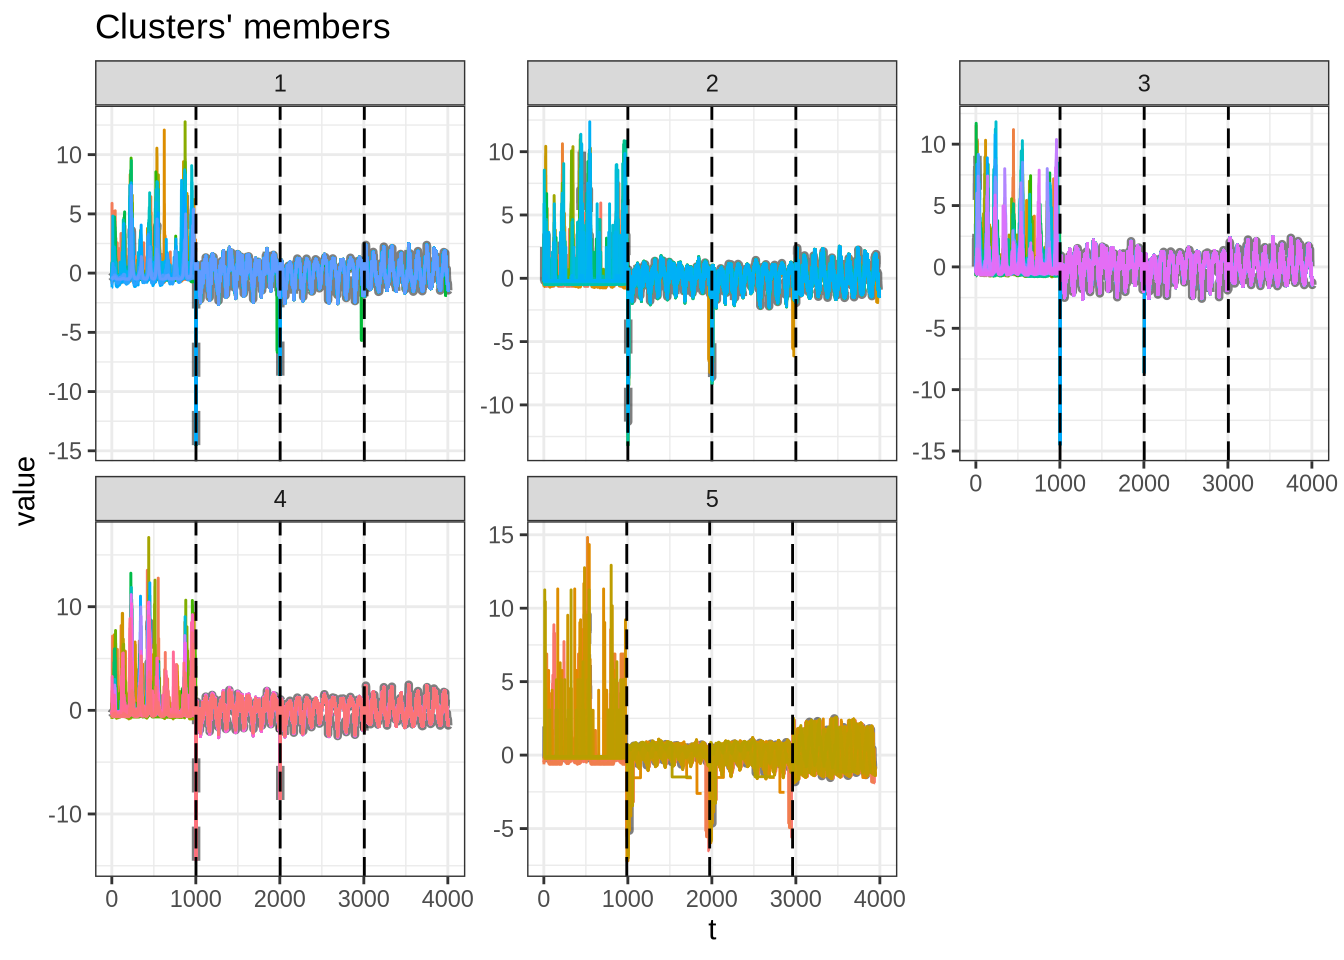
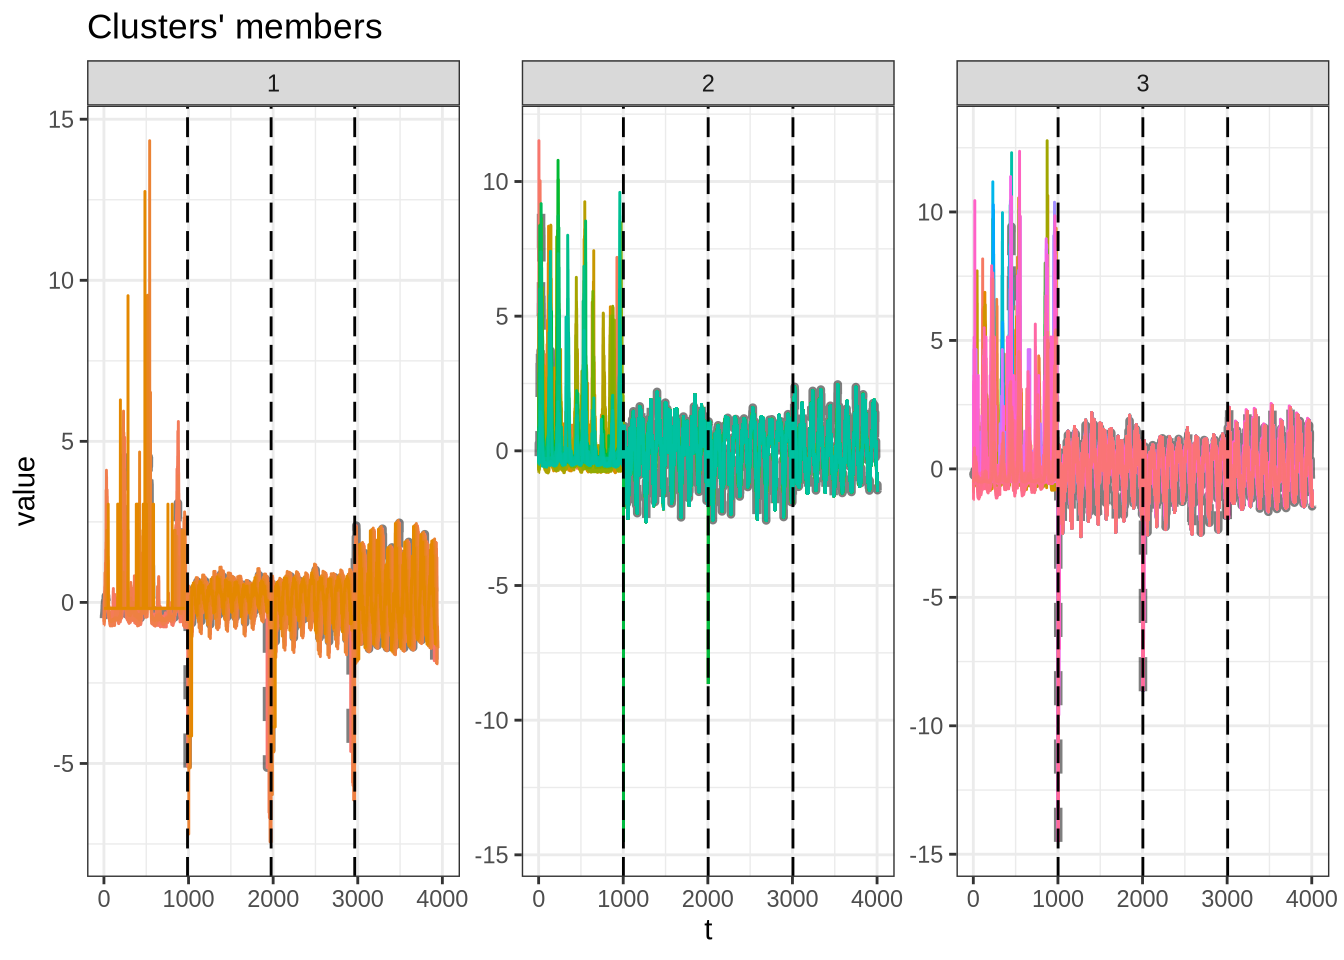
clustering run

diff --git a/docs/dengue-cluster/cluster_multivariate_all.html b/docs/dengue-cluster/cluster_multivariate_all.html
@@ -644,13 +644,13 @@ gtag('config', 'G-ZMP18L536K', { 'anonymize_ip': true});
 <span id="cb2-4"><a href="#cb2-4" aria-hidden="true" tabindex="-1"></a></span>
 <span id="cb2-5"><a href="#cb2-5" aria-hidden="true" tabindex="-1"></a><span class="fu">dim</span>(tdengue)</span></code><button title="Copy to Clipboard" class="code-copy-button"><i class="bi"></i></button></pre></div>
 <div class="cell-output cell-output-stdout">
-<pre><code>[1] 331980      6</code></pre>
+<pre><code>[1] 157932      6</code></pre>
 </div>
 </div>
 <div class="cell">
 <div class="sourceCode cell-code" id="cb4"><pre class="sourceCode r code-with-copy"><code class="sourceCode r"><span id="cb4-1"><a href="#cb4-1" aria-hidden="true" tabindex="-1"></a><span class="fu">length</span>(<span class="fu">unique</span>(tdengue<span class="sc">$</span>mun))</span></code><button title="Copy to Clipboard" class="code-copy-button"><i class="bi"></i></button></pre></div>
 <div class="cell-output cell-output-stdout">
-<pre><code>[1] 333</code></pre>
+<pre><code>[1] 158</code></pre>
 </div>
 </div>
 <p>Data for maps.</p>
@@ -688,15 +688,15 @@ gtag('config', 'G-ZMP18L536K', { 'anonymize_ip': true});
 <div class="sourceCode cell-code" id="cb12"><pre class="sourceCode r code-with-copy"><code class="sourceCode r"><span id="cb12-1"><a href="#cb12-1" aria-hidden="true" tabindex="-1"></a><span class="fu">glimpse</span>(mdengue[<span class="dv">1</span><span class="sc">:</span><span class="dv">3</span>])</span></code><button title="Copy to Clipboard" class="code-copy-button"><i class="bi"></i></button></pre></div>
 <div class="cell-output cell-output-stdout">
 <pre><code>List of 3
- $ 110002: num [1:1001, 1:4] -0.511 0.668 0.668 0.668 0.668 ...
-  ..- attr(*, "dimnames")=List of 2
-  .. ..$ : NULL
-  .. ..$ : chr [1:4] "cases" "tmax" "tmin" "prec"
- $ 110012: num [1:1001, 1:4] -0.45 0.648 0.648 1.198 1.198 ...
-  ..- attr(*, "dimnames")=List of 2
-  .. ..$ : NULL
-  .. ..$ : chr [1:4] "cases" "tmax" "tmin" "prec"
  $ 110020: num [1:1001, 1:4] -0.5201 0.1558 0.1558 0.0713 0.0713 ...
+  ..- attr(*, "dimnames")=List of 2
+  .. ..$ : NULL
+  .. ..$ : chr [1:4] "cases" "tmax" "tmin" "prec"
+ $ 120040: num [1:1002, 1:4] 1.33 1.33 11.52 11.52 9.04 ...
+  ..- attr(*, "dimnames")=List of 2
+  .. ..$ : NULL
+  .. ..$ : chr [1:4] "cases" "tmax" "tmin" "prec"
+ $ 130260: num [1:1002, 1:4] 0.0251 0.0251 2.2631 2.2631 2.2171 ...
   ..- attr(*, "dimnames")=List of 2
   .. ..$ : NULL
   .. ..$ : chr [1:4] "cases" "tmax" "tmin" "prec"</code></pre>
@@ -716,7 +716,7 @@ gtag('config', 'G-ZMP18L536K', { 'anonymize_ip': true});
 <span id="cb14-7"><a href="#cb14-7" aria-hidden="true" tabindex="-1"></a>)</span>
 <span id="cb14-8"><a href="#cb14-8" aria-hidden="true" tabindex="-1"></a><span class="fu">toc</span>()</span></code><button title="Copy to Clipboard" class="code-copy-button"><i class="bi"></i></button></pre></div>
 <div class="cell-output cell-output-stdout">
-<pre><code>33.221 sec elapsed</code></pre>
+<pre><code>7.945 sec elapsed</code></pre>
 </div>
 </div>
 <section id="cluster-validity-indices-cvi" class="level3">
@@ -731,8 +731,8 @@ gtag('config', 'G-ZMP18L536K', { 'anonymize_ip': true});
 <span id="cb16-7"><a href="#cb16-7" aria-hidden="true" tabindex="-1"></a><span class="fu">datatable</span>(res_cvi)</span></code><button title="Copy to Clipboard" class="code-copy-button"><i class="bi"></i></button></pre></div>
 <div class="cell-output-display">
 
-<div class="datatables html-widget html-fill-item-overflow-hidden html-fill-item" id="htmlwidget-602228f0057e4179a1f2" style="width:100%;height:auto;"></div>
-<script type="application/json" data-for="htmlwidget-602228f0057e4179a1f2">{"x":{"filter":"none","vertical":false,"data":[["1","2","3","4","5","6","7","8","9","10","11","12","13","14","15","16","17","18"],["k_5","k_10","k_4","k_11","k_8","k_9","k_3","k_6","k_15","k_18","k_7","k_14","k_16","k_13","k_12","k_19","k_17","k_20"],[0.1279891898123446,0.119391513627497,0.1112460346175835,0.111183544363204,0.1037889735428478,0.09908440332531278,0.09892984383200942,0.09398010585344234,0.09269024567672776,0.08951796943607226,0.08892738818122657,0.08854704499566712,0.08643915610544772,0.0820343625057926,0.07761686669656334,0.06921027960321488,0.05487261485226928,0.04173607783450495],[0,0,0,0,0,0,0,0,0,0,0,0,0,0,0,0,0,0],[77.75557636045349,36.86152453465702,84.89952578430741,35.64293817440353,41.08147273532985,43.48789744620822,106.4230192029615,52.53254600580426,25.96180002036026,23.803732462588,53.87800011773442,30.10210404457136,27.11284537736144,29.87663609861306,31.04191310540553,21.59494888502675,22.62436202537118,18.76528009214688],[1.658898470788445,1.882554869825658,1.924466082331256,1.9938445306628,2.204419668240759,1.648603751234362,2.107691477550161,2.137246906350873,1.945500720947033,1.9060611331235,1.830034787074255,1.904295830187339,1.85320605023181,1.932421270659566,2.117756324004935,1.759508162073236,2.164061740353588,2.138780449354899],[2.144809158458031,2.660883630629609,2.184289831286962,2.519810188189624,3.031635798966411,2.176479681652975,2.113687431492114,2.693270360372969,2.794142587602786,2.531278171566188,2.354791994887921,2.530897103864516,2.201971561180548,2.72361744371077,3.038253168112735,2.623302907037457,3.127845415735809,3.227042391768956],[0.08223307687689742,0.0818423748225903,0.07874964129385519,0.08770535045225687,0.07079839471025445,0.06152565069149599,0.09378627426196144,0.07079839471025445,0.1028779404861086,0.09141522966759452,0.07874964129385519,0.05464640279993375,0.0807654199387649,0.07079839471025445,0.07079839471025445,0.04624141913723524,0.06838457120656347,0.04920344101067848],[0.3008754691926039,0.2773243959547624,0.3411457223621422,0.2709614172930037,0.2894771446282627,0.2766254810204077,0.3816313315558913,0.3159596106312662,0.2660881402551111,0.2410372808552153,0.3218964738939778,0.2549663513244521,0.2490030578486272,0.275890948091602,0.2713504596501977,0.2605357604354647,0.2637490636418223,0.2564643160435325]],"container":"<table class=\"display\">\n  <thead>\n    <tr>\n      <th> <\/th>\n      <th>k<\/th>\n      <th>Sil<\/th>\n      <th>SF<\/th>\n      <th>CH<\/th>\n      <th>DB<\/th>\n      <th>DBstar<\/th>\n      <th>D<\/th>\n      <th>COP<\/th>\n    <\/tr>\n  <\/thead>\n<\/table>","options":{"columnDefs":[{"className":"dt-right","targets":[2,3,4,5,6,7,8]},{"orderable":false,"targets":0}],"order":[],"autoWidth":false,"orderClasses":false},"selection":{"mode":"multiple","selected":null,"target":"row","selectable":null}},"evals":[],"jsHooks":[]}</script>
+<div class="datatables html-widget html-fill-item-overflow-hidden html-fill-item" id="htmlwidget-28f0057e4179a1f21e0a" style="width:100%;height:auto;"></div>
+<script type="application/json" data-for="htmlwidget-28f0057e4179a1f21e0a">{"x":{"filter":"none","vertical":false,"data":[["1","2","3","4","5","6","7","8","9","10","11","12","13","14","15","16","17","18"],["k_3","k_6","k_4","k_5","k_9","k_12","k_18","k_8","k_16","k_11","k_7","k_10","k_14","k_15","k_20","k_13","k_17","k_19"],[0.1851932455295625,0.1427790458226718,0.1399261070677551,0.1328726093485332,0.1264246675593618,0.1039486183522235,0.1026909017987739,0.0987012331288753,0.09568779960390136,0.09220227425199402,0.08960667409732512,0.08068690215355162,0.07969377504745766,0.0781097438091725,0.07729389576149245,0.06800752198136534,0.06560998249586313,0.03110359761779407],[0,0,0,0,0,0,0,0,0,0,0,0,0,0,0,0,0,0],[43.66057752249095,25.34904058154429,46.47517603843828,36.16356485161607,21.03433101082276,15.59702664124042,11.12502924878748,17.67911666343919,12.9710945586168,17.81280013344909,25.53277548051301,18.63528642731555,12.89439525988924,12.59650496820389,9.520536815588777,13.08493068324026,11.21326150240375,9.941579025956903],[1.215413614523454,2.100559885743527,1.286884166018529,1.679346916864723,1.794459077604374,1.502952198085713,1.717834789805537,1.74013606988501,1.938079215897065,1.575018313955511,1.767836388837671,1.797195919795968,2.323442033374676,1.887694961070862,1.676310962394669,1.906901865991894,2.004054055535769,1.981450887519604],[1.444938276266623,2.656911499397656,1.530210284166367,1.874303402535635,2.054211039807138,2.321011202209617,2.046196469402025,2.416143987287209,2.300242553113541,2.307265383694991,2.071971182255991,2.04861393155777,3.527198942240439,2.868177943784586,2.031544224474505,2.885150636295672,2.404797070534174,2.752768694207557],[0.09007964989546459,0.1063962854619317,0.1044364703646918,0.1332077962309006,0.1438217068275179,0.1337025125306437,0.1941550290314387,0.1350259447708255,0.1562141132985195,0.08682937169604395,0.09303623136998242,0.08886684377499389,0.07251949144150534,0.0868819892594061,0.131543506768008,0.08682937169604395,0.05463043766351536,0.09833694474156239],[0.3561254439688514,0.326084342402334,0.329585335606135,0.3053672324193564,0.2664820110129925,0.2598538762444078,0.2293447737641909,0.3018679757428017,0.232938442825868,0.2650253702326757,0.301387308913413,0.2675240236356474,0.2535537666071642,0.2516294483914792,0.2275389552697563,0.2655584893239687,0.2416416222821365,0.245479391477597]],"container":"<table class=\"display\">\n  <thead>\n    <tr>\n      <th> <\/th>\n      <th>k<\/th>\n      <th>Sil<\/th>\n      <th>SF<\/th>\n      <th>CH<\/th>\n      <th>DB<\/th>\n      <th>DBstar<\/th>\n      <th>D<\/th>\n      <th>COP<\/th>\n    <\/tr>\n  <\/thead>\n<\/table>","options":{"columnDefs":[{"className":"dt-right","targets":[2,3,4,5,6,7,8]},{"orderable":false,"targets":0}],"order":[],"autoWidth":false,"orderClasses":false},"selection":{"mode":"multiple","selected":null,"target":"row","selectable":null}},"evals":[],"jsHooks":[]}</script>
 </div>
 </div>
 <div class="cell">
@@ -750,8 +750,8 @@ gtag('config', 'G-ZMP18L536K', { 'anonymize_ip': true});
 <div class="sourceCode cell-code" id="cb18"><pre class="sourceCode r code-with-copy"><code class="sourceCode r"><span id="cb18-1"><a href="#cb18-1" aria-hidden="true" tabindex="-1"></a><span class="fu">table</span>(m_sel_clust<span class="sc">@</span>cluster)</span></code><button title="Copy to Clipboard" class="code-copy-button"><i class="bi"></i></button></pre></div>
 <div class="cell-output cell-output-stdout">
 <pre><code>
-  1   2   3   4   5 
- 69  62  82 102  18 </code></pre>
+  1   2   3 
+  8  47 103 </code></pre>
 </div>
 </div>
 </section>
@@ -781,8 +781,8 @@ gtag('config', 'G-ZMP18L536K', { 'anonymize_ip': true});
 <span id="cb23-5"><a href="#cb23-5" aria-hidden="true" tabindex="-1"></a>  <span class="fu">datatable</span>()</span></code><button title="Copy to Clipboard" class="code-copy-button"><i class="bi"></i></button></pre></div>
 <div class="cell-output-display">
 
-<div class="datatables html-widget html-fill-item-overflow-hidden html-fill-item" id="htmlwidget-1e0a0473e6474226addf" style="width:100%;height:auto;"></div>
-<script type="application/json" data-for="htmlwidget-1e0a0473e6474226addf">{"x":{"filter":"none","vertical":false,"data":[["1","2","3","4","5","6","7","8","9","10","11","12","13","14","15","16","17","18","19","20","21","22","23","24","25","26","27","28","29","30","31","32","33","34","35","36","37","38","39","40","41","42","43","44","45","46","47","48","49","50","51","52","53","54","55","56","57","58","59","60","61","62","63","64","65","66","67","68","69","70","71","72","73","74","75","76","77","78","79","80","81","82","83","84","85","86","87","88","89","90","91","92","93","94","95","96","97","98","99","100","101","102","103","104","105","106","107","108","109","110","111","112","113","114","115","116","117","118","119","120","121","122","123","124","125","126","127","128","129","130","131","132","133","134","135","136","137","138","139","140","141","142","143","144","145","146","147","148","149","150","151","152","153","154","155","156","157","158","159","160","161","162","163","164","165","166","167","168","169","170","171","172","173","174","175","176","177","178","179","180","181","182","183","184","185","186","187","188","189","190","191","192","193","194","195","196","197","198","199","200","201","202","203","204","205","206","207","208","209","210","211","212","213","214","215","216","217","218","219","220","221","222","223","224","225","226","227","228","229","230","231","232","233","234","235","236","237","238","239","240","241","242","243","244","245","246","247","248","249","250","251","252","253","254","255","256","257","258","259","260","261","262","263","264","265","266","267","268","269","270","271","272","273","274","275","276","277","278","279","280","281","282","283","284","285","286","287","288","289","290","291","292","293","294","295","296","297","298","299","300","301","302","303","304","305","306","307","308","309","310","311","312","313","314","315","316","317","318","319","320","321","322","323","324","325","326","327","328","329","330","331","332","333"],["1","1","1","1","1","1","1","1","1","1","1","1","1","1","1","1","1","1","1","1","1","1","1","1","1","1","1","1","1","1","1","1","1","1","1","1","1","1","1","1","1","1","1","1","1","1","1","1","1","1","1","1","1","1","1","1","1","1","1","1","1","1","1","1","1","1","1","1","1","2","2","2","2","2","2","2","2","2","2","2","2","2","2","2","2","2","2","2","2","2","2","2","2","2","2","2","2","2","2","2","2","2","2","2","2","2","2","2","2","2","2","2","2","2","2","2","2","2","2","2","2","2","2","2","2","2","2","2","2","2","2","3","3","3","3","3","3","3","3","3","3","3","3","3","3","3","3","3","3","3","3","3","3","3","3","3","3","3","3","3","3","3","3","3","3","3","3","3","3","3","3","3","3","3","3","3","3","3","3","3","3","3","3","3","3","3","3","3","3","3","3","3","3","3","3","3","3","3","3","3","3","3","3","3","3","3","3","3","3","3","3","3","3","4","4","4","4","4","4","4","4","4","4","4","4","4","4","4","4","4","4","4","4","4","4","4","4","4","4","4","4","4","4","4","4","4","4","4","4","4","4","4","4","4","4","4","4","4","4","4","4","4","4","4","4","4","4","4","4","4","4","4","4","4","4","4","4","4","4","4","4","4","4","4","4","4","4","4","4","4","4","4","4","4","4","4","4","4","4","4","4","4","4","4","4","4","4","4","4","4","4","4","4","4","4","5","5","5","5","5","5","5","5","5","5","5","5","5","5","5","5","5","5"],["Anápolis","Aparecida De Goiânia","Araguari","Araxá","Araçatuba","Barcarena","Barretos","Bauru","Belo Horizonte","Betim","Birigui","Blumenau","Brasília","Cabo De Santo Agostinho","Campo Grande","Catalão","Contagem","Curitiba","Divinópolis","Dourados","Eunápolis","Feira De Santana","Formosa","Franca","Garanhuns","Goiânia","Ibirité","Itabira","Itaboraí","Itabuna","Itaperuna","Itu","Ituiutaba","Jequié","João Pessoa","Juiz De Fora","Maringá","Montes Claros","Muriaé","Nova Serrana","Patos De Minas","Paço Do Lumiar","Piracicaba","Ponta Grossa","Porto Alegre","Porto Velho","Presidente Prudente","Ribeirão Das Neves","Rio Das Ostras","Rio Verde","Santa Luzia","Santa Rita","Santo Antônio De Jesus","Serra","Sertãozinho","Sete Lagoas","Suzano","São José Do Rio Preto","São José Dos Pinhais","São Lourenço Da Mata","São Pedro Da Aldeia","Tangará Da Serra","Três Lagoas","Uberlândia","Ubá","Vila Velha","Vilhena","Volta Redonda","Águas Lindas De Goiás","Almirante Tamandaré","Apucarana","Arapongas","Araucária","Balneário Camboriú","Barbacena","Barra Do Piraí","Bayeux","Botucatu","Breves","Brusque","Cachoeirinha","Caieiras","Canoas","Carapicuíba","Cariacica","Caruaru","Cascavel","Caxias Do Sul","Chapecó","Codó","Colatina","Colombo","Conselheiro Lafaiete","Cotia","Criciúma","Florianópolis","Franco Da Rocha","Guaratinguetá","Guaíba","Indaiatuba","Itajaí","Itanhaém","Itapetininga","Jaraguá Do Sul","Joinville","Leme","Mairiporã","Nossa Senhora Do Socorro","Nova Friburgo","Novo Hamburgo","Palhoça","Paranaguá","Passo Fundo","Pinhais","Piraquara","Poços De Caldas","Queimados","Ribeirão Pires","Rio Grande","Salto","Santa Maria","Sarandi","Tatuí","Teixeira De Freitas","Teresópolis","Tubarão","Umuarama","Viamão","Vitória","Votorantim","Várzea Paulista","Abaetetuba","Alagoinhas","Altamira","Ananindeua","Aracaju","Araguaína","Araraquara","Barreiras","Belford Roxo","Belém","Boa Vista","Bragança","Cabo Frio","Cametá","Campos Dos Goytacazes","Castanhal","Caucaia","Caxias","Coronel Fabriciano","Crato","Cuiabá","Duque De Caxias","Fortaleza","Foz Do Iguaçu","Governador Valadares","Guarapari","Iguatu","Imperatriz","Ipatinga","Itacoatiara","Itaituba","Itapipoca","Japeri","Linhares","Londrina","Luziânia","Macapá","Macaé","Magé","Manacapuru","Manaus","Marabá","Maracanaú","Maricá","Marituba","Mesquita","Mossoró","Natal","Nilópolis","Niterói","Nova Iguaçu","Nova Lima","Palmas","Paragominas","Parauapebas","Parintins","Patos","Petrópolis","Porto Seguro","Ribeirão Preto","Rio Branco","Rio De Janeiro","Salvador","Santana","Santarém","Senador Canedo","Sinop","São Félix Do Xingu","São Gonçalo","São José De Ribamar","São João De Meriti","São Luís","Tailândia","Taubaté","Teresina","Trindade","Tucuruí","Uberaba","Varginha","Vespasiano","Vitória Da Conquista","Vitória De Santo Antão","Abreu E Lima","Americana","Angra Dos Reis","Arapiraca","Araras","Araruama","Ariquemes","Assis","Atibaia","Açailândia","Bacabal","Barra Mansa","Barueri","Bragança Paulista","Camaragibe","Camaçari","Cambé","Campina Grande","Campinas","Caraguatatuba","Catanduva","Corumbá","Cubatão","Diadema","Embu","Ferraz De Vasconcelos","Francisco Morato","Guarujá","Guarulhos","Hortolândia","Igarassu","Ilhéus","Itabaiana","Itaguaí","Itapecerica Da Serra","Itapevi","Itaquaquecetuba","Itatiba","Itumbiara","Jaboatão Dos Guararapes","Jacareí","Jandira","Jataí","Jaú","Ji-Paraná","Juazeiro","Juazeiro Do Norte","Jundiaí","Lagarto","Lauro De Freitas","Lavras","Limeira","Maceió","Maranguape","Marília","Mauá","Mogi Das Cruzes","Mogi Guaçu","Novo Gama","Olinda","Osasco","Ourinhos","Parnamirim","Parnaíba","Passos","Paulista","Paulo Afonso","Paulínia","Petrolina","Pindamonhangaba","Pouso Alegre","Poá","Praia Grande","Recife","Resende","Rio Claro","Rondonópolis","Sabará","Santa Bárbara D'oeste","Santa Cruz Do Capibaribe","Santana De Parnaíba","Santo André","Santos","Simões Filho","Sobral","Sorocaba","Sumaré","São Bernardo Do Campo","São Caetano Do Sul","São Carlos","São Gonçalo Do Amarante","São José","São José Dos Campos","São Paulo","São Vicente","Taboão Da Serra","Teófilo Otoni","Timon","Toledo","Valinhos","Valparaíso De Goiás","Várzea Grande","Alvorada","Aracruz","Bagé","Bento Gonçalves","Cachoeiro De Itapemirim","Campo Largo","Erechim","Fazenda Rio Grande","Gravataí","Guarapuava","Lages","Pelotas","Santa Cruz Do Sul","Sapucaia Do Sul","São Leopoldo","São Mateus","Uruguaiana","Valença"],["GO","GO","MG","MG","SP","PA","SP","SP","MG","MG","SP","SC","DF","PE","MS","GO","MG","PR","MG","MS","BA","BA","GO","SP","PE","GO","MG","MG","RJ","BA","RJ","SP","MG","BA","PB","MG","PR","MG","MG","MG","MG","MA","SP","PR","RS","RO","SP","MG","RJ","GO","MG","PB","BA","ES","SP","MG","SP","SP","PR","PE","RJ","MT","MS","MG","MG","ES","RO","RJ","GO","PR","PR","PR","PR","SC","MG","RJ","PB","SP","PA","SC","RS","SP","RS","SP","ES","PE","PR","RS","SC","MA","ES","PR","MG","SP","SC","SC","SP","SP","RS","SP","SC","SP","SP","SC","SC","SP","SP","SE","RJ","RS","SC","PR","RS","PR","PR","MG","RJ","SP","RS","SP","RS","PR","SP","BA","RJ","SC","PR","RS","ES","SP","SP","PA","BA","PA","PA","SE","TO","SP","BA","RJ","PA","RR","PA","RJ","PA","RJ","PA","CE","MA","MG","CE","MT","RJ","CE","PR","MG","ES","CE","MA","MG","AM","PA","CE","RJ","ES","PR","GO","AP","RJ","RJ","AM","AM","PA","CE","RJ","PA","RJ","RN","RN","RJ","RJ","RJ","MG","TO","PA","PA","AM","PB","RJ","BA","SP","AC","RJ","BA","AP","PA","GO","MT","PA","RJ","MA","RJ","MA","PA","SP","PI","GO","PA","MG","MG","MG","BA","PE","PE","SP","RJ","AL","SP","RJ","RO","SP","SP","MA","MA","RJ","SP","SP","PE","BA","PR","PB","SP","SP","SP","MS","SP","SP","SP","SP","SP","SP","SP","SP","PE","BA","SE","RJ","SP","SP","SP","SP","GO","PE","SP","SP","GO","SP","RO","BA","CE","SP","SE","BA","MG","SP","AL","CE","SP","SP","SP","SP","GO","PE","SP","SP","RN","PI","MG","PE","BA","SP","PE","SP","MG","SP","SP","PE","RJ","SP","MT","MG","SP","PE","SP","SP","SP","BA","CE","SP","SP","SP","SP","SP","RN","SC","SP","SP","SP","SP","MG","MA","PR","SP","GO","MT","RS","ES","RS","RS","ES","PR","RS","PR","RS","PR","SC","RS","RS","RS","RS","ES","RS","BA"]],"container":"<table class=\"display\">\n  <thead>\n    <tr>\n      <th> <\/th>\n      <th>group<\/th>\n      <th>name_muni<\/th>\n      <th>abbrev_state<\/th>\n    <\/tr>\n  <\/thead>\n<\/table>","options":{"columnDefs":[{"orderable":false,"targets":0}],"order":[],"autoWidth":false,"orderClasses":false},"selection":{"mode":"multiple","selected":null,"target":"row","selectable":null}},"evals":[],"jsHooks":[]}</script>
+<div class="datatables html-widget html-fill-item-overflow-hidden html-fill-item" id="htmlwidget-0473e6474226addf1e98" style="width:100%;height:auto;"></div>
+<script type="application/json" data-for="htmlwidget-0473e6474226addf1e98">{"x":{"filter":"none","vertical":false,"data":[["1","2","3","4","5","6","7","8","9","10","11","12","13","14","15","16","17","18","19","20","21","22","23","24","25","26","27","28","29","30","31","32","33","34","35","36","37","38","39","40","41","42","43","44","45","46","47","48","49","50","51","52","53","54","55","56","57","58","59","60","61","62","63","64","65","66","67","68","69","70","71","72","73","74","75","76","77","78","79","80","81","82","83","84","85","86","87","88","89","90","91","92","93","94","95","96","97","98","99","100","101","102","103","104","105","106","107","108","109","110","111","112","113","114","115","116","117","118","119","120","121","122","123","124","125","126","127","128","129","130","131","132","133","134","135","136","137","138","139","140","141","142","143","144","145","146","147","148","149","150","151","152","153","154","155","156","157","158"],["1","1","1","1","1","1","1","1","2","2","2","2","2","2","2","2","2","2","2","2","2","2","2","2","2","2","2","2","2","2","2","2","2","2","2","2","2","2","2","2","2","2","2","2","2","2","2","2","2","2","2","2","2","2","2","3","3","3","3","3","3","3","3","3","3","3","3","3","3","3","3","3","3","3","3","3","3","3","3","3","3","3","3","3","3","3","3","3","3","3","3","3","3","3","3","3","3","3","3","3","3","3","3","3","3","3","3","3","3","3","3","3","3","3","3","3","3","3","3","3","3","3","3","3","3","3","3","3","3","3","3","3","3","3","3","3","3","3","3","3","3","3","3","3","3","3","3","3","3","3","3","3","3","3","3","3","3","3"],["Alvorada","Cachoeiro De Itapemirim","Cariacica","Gravataí","Pelotas","Serra","Vila Velha","Vitória","Ananindeua","Aracaju","Belford Roxo","Belo Horizonte","Belém","Boa Vista","Cabo Frio","Campos Dos Goytacazes","Castanhal","Caucaia","Cuiabá","Duque De Caxias","Feira De Santana","Fortaleza","Foz Do Iguaçu","Governador Valadares","Imperatriz","Ipatinga","Itaboraí","João Pessoa","Luziânia","Macapá","Macaé","Magé","Manaus","Marabá","Maracanaú","Mossoró","Natal","Niterói","Nova Iguaçu","Palmas","Parauapebas","Petrópolis","Recife","Ribeirão Preto","Rio Branco","Rio De Janeiro","Salvador","Santarém","São Gonçalo","São João De Meriti","São Luís","Taubaté","Teresina","Uberaba","Vitória Da Conquista","Americana","Angra Dos Reis","Anápolis","Aparecida De Goiânia","Arapiraca","Araraquara","Araçatuba","Barueri","Bauru","Betim","Blumenau","Brasília","Cabo De Santo Agostinho","Camaçari","Campina Grande","Campinas","Campo Grande","Canoas","Carapicuíba","Caruaru","Cascavel","Caxias Do Sul","Chapecó","Colombo","Contagem","Cotia","Criciúma","Curitiba","Diadema","Divinópolis","Dourados","Embu","Ferraz De Vasconcelos","Florianópolis","Franca","Goiânia","Guarujá","Guarulhos","Hortolândia","Indaiatuba","Itabuna","Itajaí","Itapevi","Itaquaquecetuba","Jaboatão Dos Guararapes","Jacareí","Joinville","Juazeiro","Juazeiro Do Norte","Juiz De Fora","Jundiaí","Lauro De Freitas","Limeira","Londrina","Maceió","Maringá","Marília","Mauá","Mogi Das Cruzes","Montes Claros","Nova Friburgo","Novo Hamburgo","Olinda","Osasco","Parnamirim","Passo Fundo","Paulista","Petrolina","Piracicaba","Ponta Grossa","Porto Alegre","Porto Velho","Praia Grande","Presidente Prudente","Ribeirão Das Neves","Rio Claro","Rio Grande","Rio Verde","Rondonópolis","Santa Luzia","Santa Maria","Santo André","Santos","Sete Lagoas","Sobral","Sorocaba","Sumaré","Suzano","São Bernardo Do Campo","São Carlos","São José","São José Do Rio Preto","São José Dos Campos","São José Dos Pinhais","São Leopoldo","São Paulo","São Vicente","Taboão Da Serra","Uberlândia","Viamão","Volta Redonda","Várzea Grande","Águas Lindas De Goiás"],["RS","ES","ES","RS","RS","ES","ES","ES","PA","SE","RJ","MG","PA","RR","RJ","RJ","PA","CE","MT","RJ","BA","CE","PR","MG","MA","MG","RJ","PB","GO","AP","RJ","RJ","AM","PA","CE","RN","RN","RJ","RJ","TO","PA","RJ","PE","SP","AC","RJ","BA","PA","RJ","RJ","MA","SP","PI","MG","BA","SP","RJ","GO","GO","AL","SP","SP","SP","SP","MG","SC","DF","PE","BA","PB","SP","MS","RS","SP","PE","PR","RS","SC","PR","MG","SP","SC","PR","SP","MG","MS","SP","SP","SC","SP","GO","SP","SP","SP","SP","BA","SC","SP","SP","PE","SP","SC","BA","CE","MG","SP","BA","SP","PR","AL","PR","SP","SP","SP","MG","RJ","RS","PE","SP","RN","RS","PE","PE","SP","PR","RS","RO","SP","SP","MG","SP","RS","GO","MT","MG","RS","SP","SP","MG","CE","SP","SP","SP","SP","SP","SC","SP","SP","PR","RS","SP","SP","SP","MG","RS","RJ","MT","GO"]],"container":"<table class=\"display\">\n  <thead>\n    <tr>\n      <th> <\/th>\n      <th>group<\/th>\n      <th>name_muni<\/th>\n      <th>abbrev_state<\/th>\n    <\/tr>\n  <\/thead>\n<\/table>","options":{"columnDefs":[{"orderable":false,"targets":0}],"order":[],"autoWidth":false,"orderClasses":false},"selection":{"mode":"multiple","selected":null,"target":"row","selectable":null}},"evals":[],"jsHooks":[]}</script>
 </div>
 </div>
 <div class="cell">
